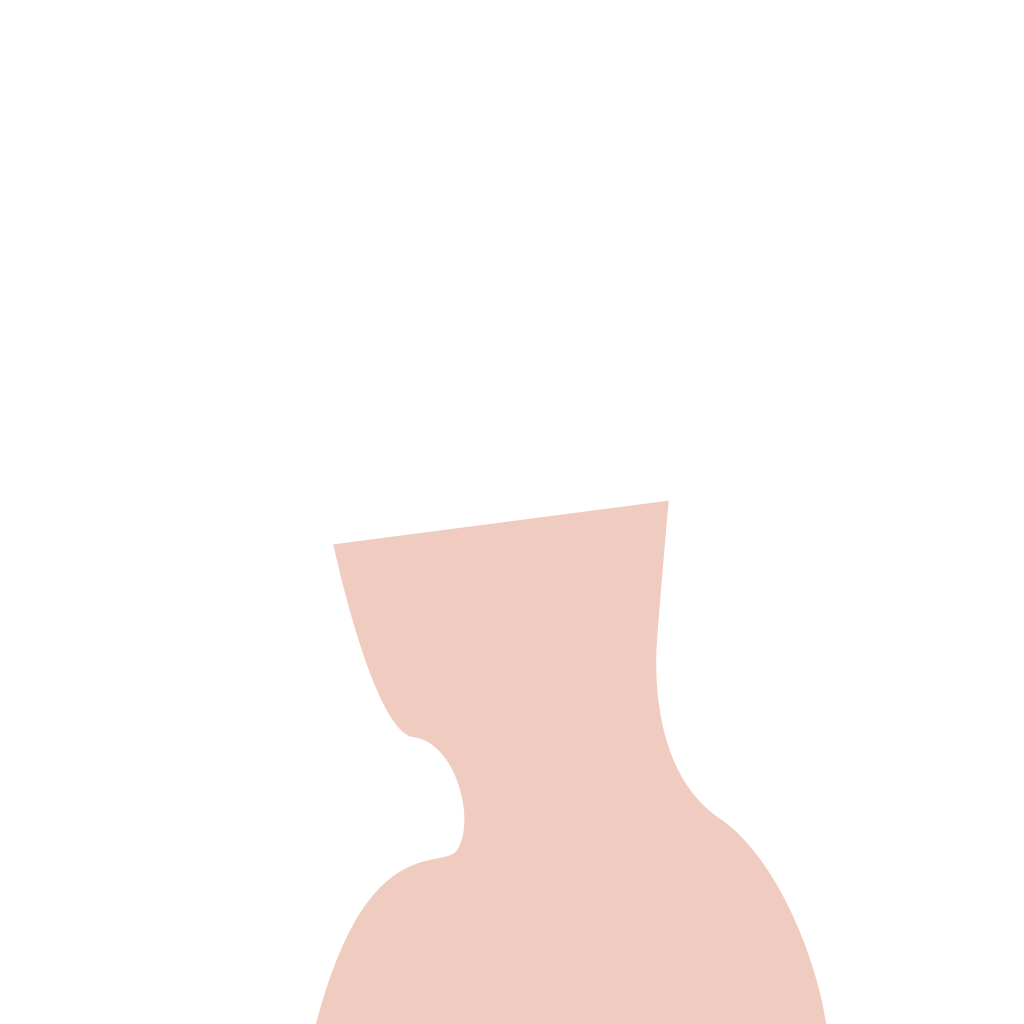
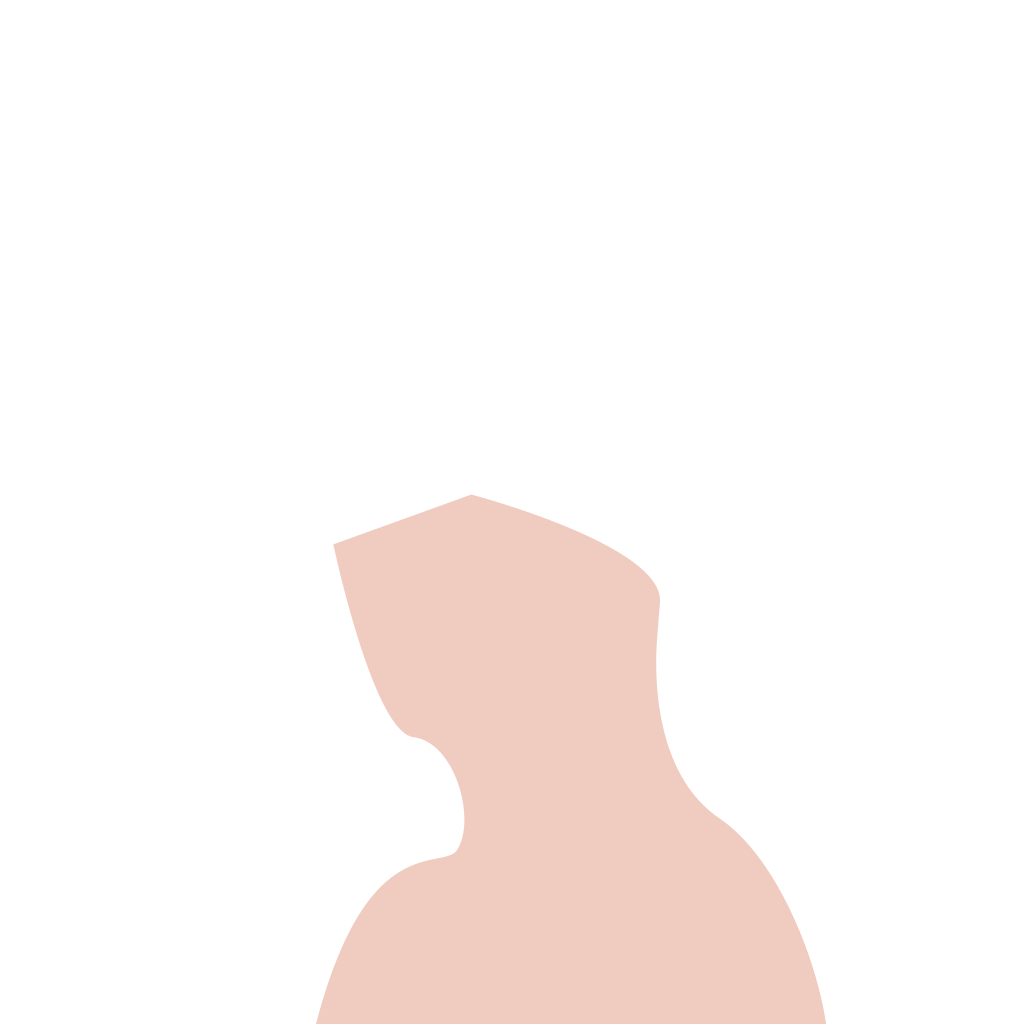
updated alignment for head pitch

Changed region(s): [[0.3438, 0.4688, 0.6562, 0.5938]]

diff --git a/open_earable/lib/apps/posture_tracker/view/posture_tracker_view.dart b/open_earable/lib/apps/posture_tracker/view/posture_tracker_view.dart
@@ -44,7 +44,7 @@ class _PostureTrackerViewState extends State<PostureTrackerView> {
                           roll: value.attitude.roll,
                           headAssetPath: "assets/posture_tracker/Head_Front.png",
                           neckAssetPath: "assets/posture_tracker/Neck_Front.png",
-                          headAlignment: Alignment.center.add(Alignment(0, 0.25)),
+                          headAlignment: Alignment.center.add(Alignment(0, 0.3)),
                         ),
                       )
                     ),
@@ -55,6 +55,7 @@ class _PostureTrackerViewState extends State<PostureTrackerView> {
                           roll: value.attitude.pitch,
                           headAssetPath: "assets/posture_tracker/Head_Side.png",
                           neckAssetPath: "assets/posture_tracker/Neck_Side.png",
+                          headAlignment: Alignment.center.add(Alignment(0, 0.3)),
                         )
                       )
                     ),
